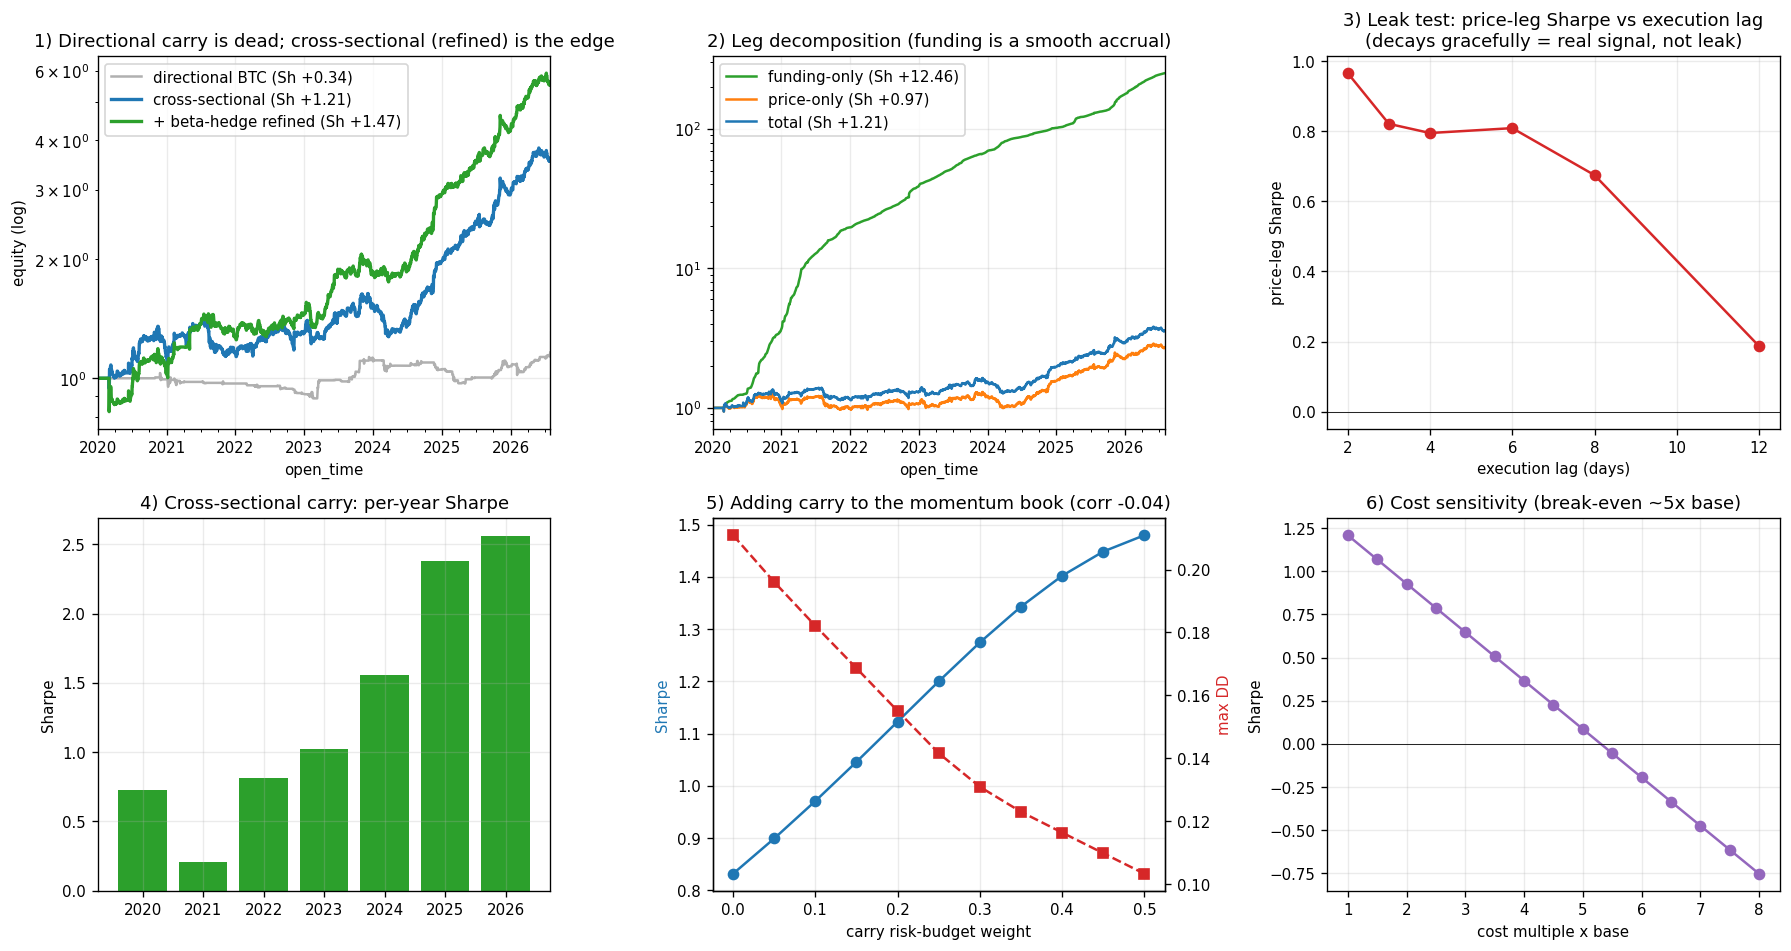
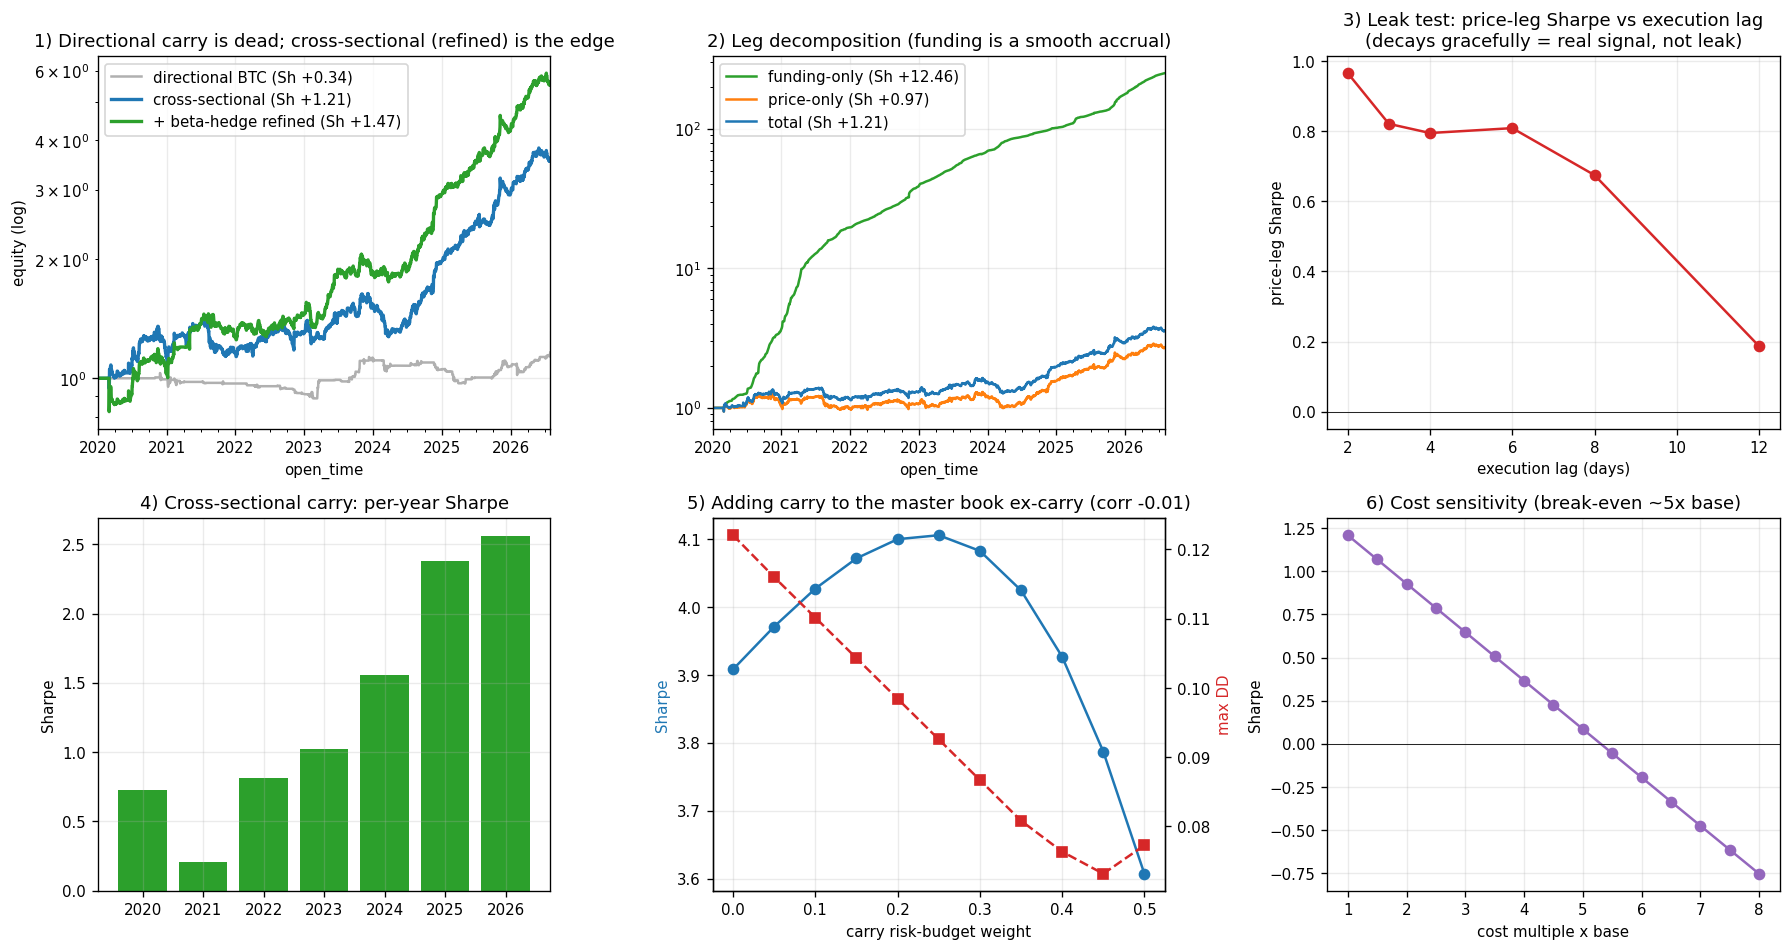
The carry figure dropped a leg the book had already dropped
Panel 5 plots "the master book ex-carry vs +carry", and built the baseline as
read_parquet(master_book_legs).drop(columns=["carry"]).mean(axis=1). Carry left
the book in §6d-ter, so the drop raised KeyError and the figure had not been
generated since. The flat mean was the second defect in the same line: it
prices the hedge slot at a share the book does not hold it at.

Now drops carry only if present and blends through the assembler's own
book_stack, so the "book without carry" the panel compares against is the book.

diff --git a/scripts/carry/make_carry_figures.py b/scripts/carry/make_carry_figures.py
@@ -16,6 +16,7 @@ warnings.filterwarnings("ignore", category=FutureWarning)      # deprecations on
 warnings.filterwarnings("ignore", category=DeprecationWarning)
 
 from src.backtest.engine import backtest, vol_target  # noqa: E402
+import scripts.run_master_book as mb  # noqa: E402  the assembler weights the book, not a flat mean
 from src.config import CAPITAL_USD, FIGURES_DIR, REPORTS_DIR, VOL_TARGET_ANNUAL  # noqa: E402
 from src.data.binance_bulk import load_funding, load_klines  # noqa: E402
 from src.metrics import summarise  # noqa: E402
@@ -78,7 +79,11 @@ def main():
 
     # (5) portfolio blend: master book (ex-carry) vs +carry
     a = ax[1, 1]
-    book = pd.read_parquet(REPORTS_DIR / "master_book_legs.parquet").drop(columns=["carry"]).mean(axis=1)
+    # The book this is compared against is whatever the book trades — carry is no longer in it (§6d-ter),
+    # so dropping it by name raised KeyError. And the blend has to be the assembler's weighting, not a
+    # flat mean, or the baseline prices the hedge slot at a share the book does not hold it at.
+    _legs = pd.read_parquet(REPORTS_DIR / "master_book_legs.parquet")
+    book = mb.book_stack(_legs.drop(columns=[c for c in ("carry",) if c in _legs.columns]))
     if carry_net.index.tz is not None:
         book.index = book.index.tz_localize(carry_net.index.tz)
     idx = carry_net.index.intersection(book.index)
